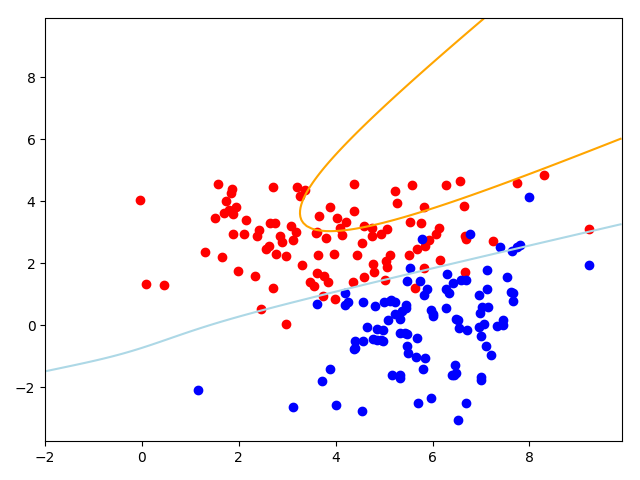
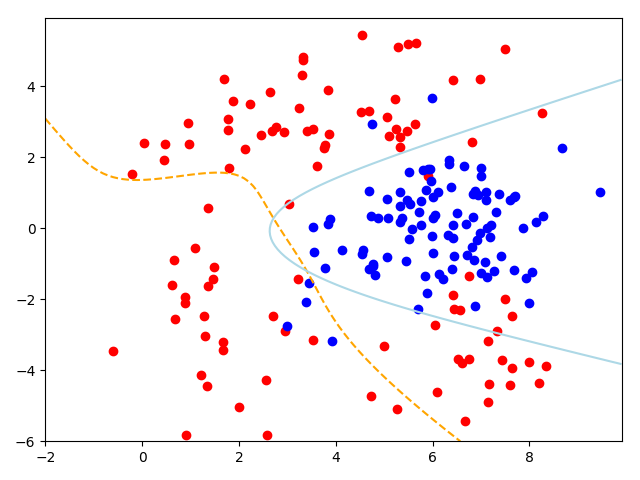
increased difficulty for FCN

diff --git a/workshop/logistic_regression/main.py b/workshop/logistic_regression/main.py
@@ -5,13 +5,9 @@ from math import exp
 
 def generate_data(n, p=0.8):
     # p: percentage of data for training
-    mean = [4., 3.]
-    cov = [[4., 0.], [0., 1.]]
-    x1 = np.random.multivariate_normal(mean, cov, n)
+    x1 = np.random.multivariate_normal([4., 3.], [[4., 0.], [0., 1.]], n)
     plt.scatter(x1.T[0], x1.T[1], color="red")
-    mean = [6., 0.]
-    cov = [[1.5, 0.5], [0.5, 1.5]]
-    x2 = np.random.multivariate_normal(mean, cov, n)
+    x2 = np.random.multivariate_normal([6., 0.], [[1.5, 0.5], [0.5, 1.5]], n)
     plt.scatter(x2.T[0], x2.T[1], color="blue")
     # combine data
     x = np.vstack((x1, x2))
@@ -22,10 +18,10 @@ def generate_data(n, p=0.8):
     x_shuffled = x[shuffle_idx]
     y_shuffled = y[shuffle_idx]
     # split data into training and testing
-    _x_train = x_shuffled[0:int(n * p)]
-    _y_train = y_shuffled[0:int(n * p)]
-    _x_test = x_shuffled[int(n * p):n]
-    _y_test = y_shuffled[int(n * p):n]
+    _x_train = x_shuffled[0:int(n * p)*2]
+    _y_train = y_shuffled[0:int(n * p)*2]
+    _x_test = x_shuffled[int(n * p)*2:n*2]
+    _y_test = y_shuffled[int(n * p)*2:n*2]
     return _x_train, _y_train, _x_test, _y_test
 
 
@@ -44,12 +40,12 @@ def error_rate(_x, _y, _theta, _model):
 
 
 def gradient(_x, _y, _theta, _model):
-    g = np.array([0., 0., 0.])
+    grad = np.array([0., 0., 0.])
     for i in range(len(_x)):
-        g[0] += (-(1. - model(_x[i], _theta)) * _y[i][0] + model(_x[i], _theta) * _y[i][1]) * _x[i][0]
-        g[1] += (-(1. - model(_x[i], _theta)) * _y[i][0] + model(_x[i], _theta) * _y[i][1]) * _x[i][1]
-        g[2] += (-(1. - model(_x[i], _theta)) * _y[i][0] + model(_x[i], _theta) * _y[i][1])
-    return g
+        grad[0] += (-(1. - model(_x[i], _theta)) * _y[i][0] + model(_x[i], _theta) * _y[i][1]) * _x[i][0]
+        grad[1] += (-(1. - model(_x[i], _theta)) * _y[i][0] + model(_x[i], _theta) * _y[i][1]) * _x[i][1]
+        grad[2] += (-(1. - model(_x[i], _theta)) * _y[i][0] + model(_x[i], _theta) * _y[i][1])
+    return grad
 
 
 def train(_x, _y, _theta, _model, lr=1e-5, steps=1000):
@@ -65,10 +61,10 @@ def train(_x, _y, _theta, _model, lr=1e-5, steps=1000):
 
 
 if __name__ == "__main__":
-    x_train, y_train, x_test, y_test = generate_data(300)
+    x_train, y_train, x_test, y_test = generate_data(100)
     theta = np.array([1., 1., 0.])
     # training
-    theta_new = train(x_train, y_train, theta, model, steps=5000)
+    theta_new = train(x_train, y_train, theta, model, lr=1e-4, steps=1000)
     # plot boundary
     x_boundary = [0., 10.]
     y_boundary = [-theta_new[2]/theta_new[1], (-theta_new[2]-10*theta_new[0])/theta_new[1]]

diff --git a/workshop/FCN_classification/main.py b/workshop/FCN_classification/main.py
@@ -4,13 +4,12 @@ from matplotlib import pyplot as plt
 
 def generate_data(n, p=0.8):
     # p: percentage of data for training
-    mean = [4., 3.]
-    cov = [[4., 0.], [0., 1.]]
-    x1 = np.random.multivariate_normal(mean, cov, n)
+    x11 = np.random.multivariate_normal([4., 3.], [[4., 0.], [0., 1.]], int(0.5*n))
+    x12 = np.random.multivariate_normal([2., -2.], [[1., 0.], [0., 2.]], int(0.25*n))
+    x13 = np.random.multivariate_normal([7., -4.], [[1., 0.], [0., 1.]], int(0.25 * n))
+    x1 = np.vstack((x11, x12, x13))
     plt.scatter(x1.T[0], x1.T[1], color="red")
-    mean = [6., 0.]
-    cov = [[1.5, 0.5], [0.5, 1.5]]
-    x2 = np.random.multivariate_normal(mean, cov, n)
+    x2 = np.random.multivariate_normal([6., 0.], [[1.5, 0.5], [0.5, 1.5]], n)
     plt.scatter(x2.T[0], x2.T[1], color="blue")
     # combine data
     x = np.vstack((x1, x2))
@@ -108,7 +107,7 @@ def train(_x, _y, _theta, _model, lr=1e-5, steps=1000):
 
 def plot_boundary(_theta, _color):
     x_plot = np.arange(-2., 10., .1)
-    y_plot = np.arange(-2., 10., .1)
+    y_plot = np.arange(-6., 6., .1)
     x_plot, y_plot = np.meshgrid(x_plot, y_plot)
     f = np.zeros(x_plot.shape)
     for i in range(x_plot.shape[0]):
@@ -127,7 +126,7 @@ if __name__ == "__main__":
     # plot boundary before training
     plot_boundary(theta, "orange")
     # training
-    theta_new = train(x_train, y_train, theta, model, lr=1e-4, steps=1000)
+    theta_new = train(x_train, y_train, theta, model, lr=1e-4, steps=2000)
     # plot boundary after training
     plot_boundary(theta_new, "lightblue")
     plt.show()
